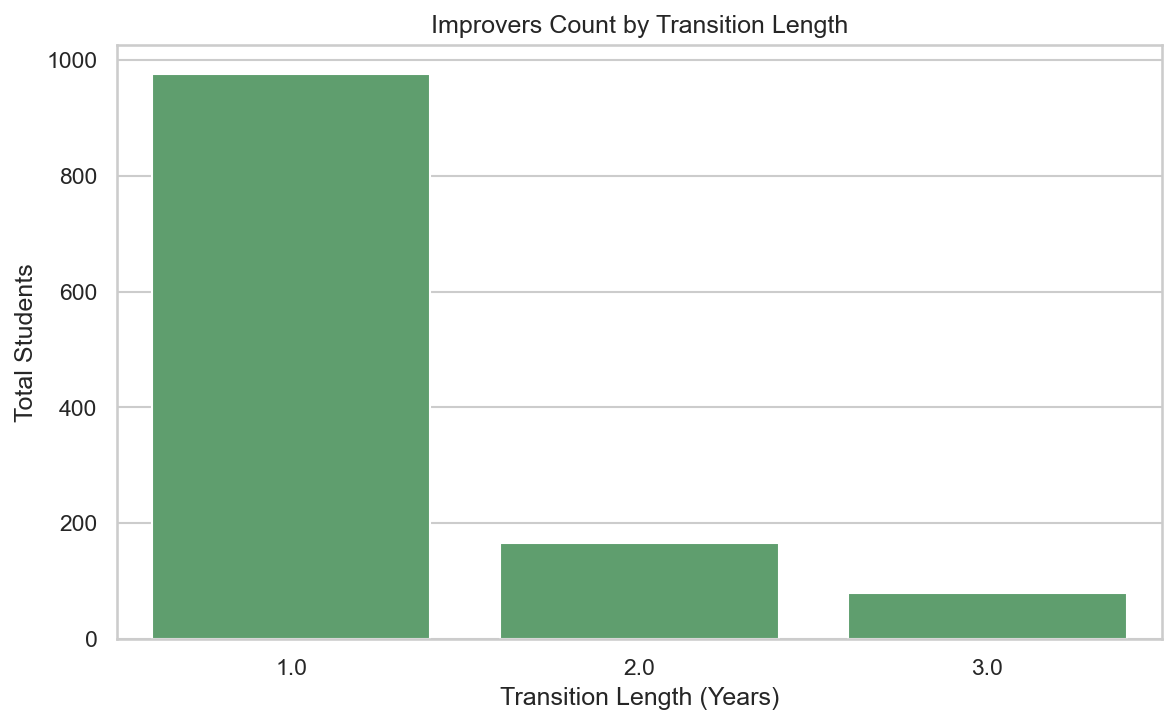
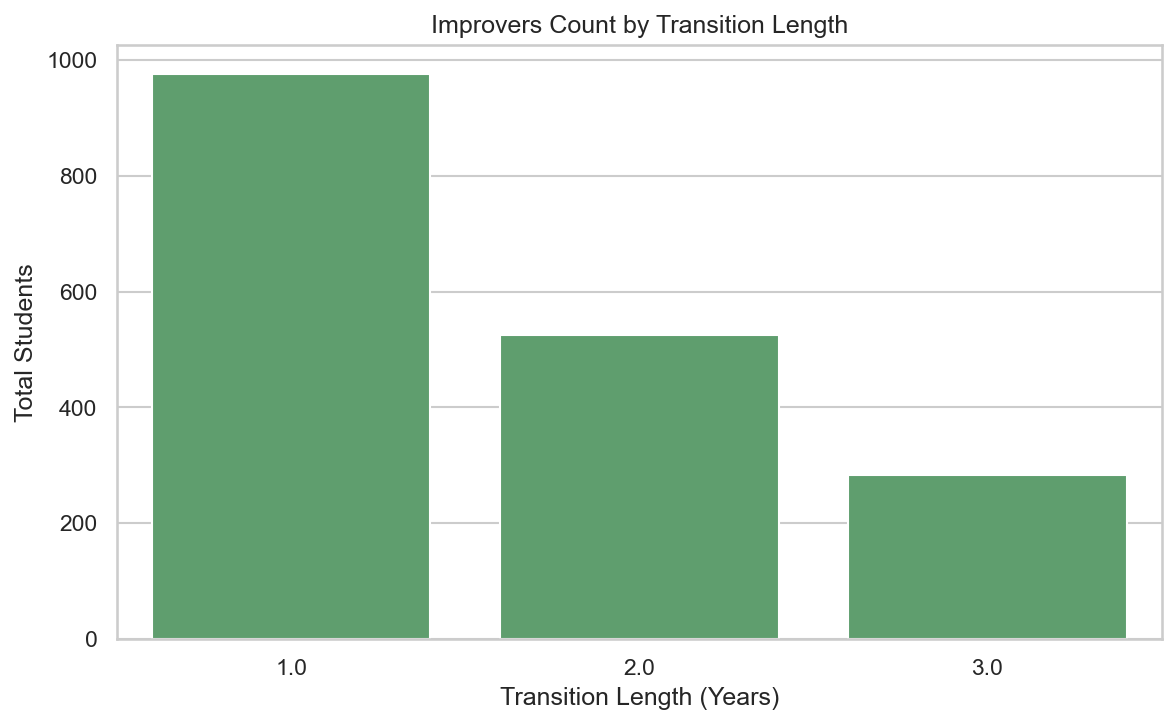
more chart cleanup

Changed region(s): [[0.4286, 0.4552, 0.6735, 0.7586], [0.7041, 0.6372, 0.9796, 0.8193]]

diff --git a/code/08_attendance.py b/code/08_attendance.py
@@ -15,8 +15,8 @@ FIG_DIR   = ROOT / "figures"
 MIN_N              = 30
 MIN_MEMBERSHIP     = 60
 CHRONIC_ABSENT_PCT = 10.0
-# Improver definition (all charts 9–15): must have *observed* anchor year (first_good_year − 1)
-# with attendance strictly below this, and *observed* first good year with attendance ≥ this.
+# Improver definition (all charts 9–15): any student with at least one poor year (< 90%)
+# and a later good year (>= 95%), allowing intermediate years in [90, 95).
 IMPROVER_POOR_MAX_PCT = 90.0
 IMPROVER_GOOD_MIN_PCT = 95.0
 
@@ -117,8 +117,8 @@ _dbase["_disability_group"] = np.where(
     _dbase["scram_membership"].fillna(0) > 0, "Disability", "No Disability"
 )
 
-# Improver charts base (9–15) — 09-style filters, then importers are restricted to students
-# with anchor year < POOR_MAX and first good year ≥ GOOD_MIN (see _improvers below).
+# Improver charts base (9–15) — 09-style filters, then improvers are students with
+# any later good year after at least one poor year (see _improvers below).
 _base_imp = df[
     (df["school_membership"] >= MIN_MEMBERSHIP) &
     df["year"].notna() &
@@ -136,7 +136,7 @@ _base_imp = _base_imp[
 
 _poor_rows = _base_imp[_base_imp["percent_days_attended"] < IMPROVER_POOR_MAX_PCT].copy()
 
-# Candidate: first year ≥ good min after first year < poor max (same structure as 09)
+# Improver candidate: first observed poor year, and first observed good year after that poor year.
 _first_poor_yr = _poor_rows.groupby("student_number")["year"].min().rename("first_poor_year")
 _good_rows = (
     _base_imp[_base_imp["percent_days_attended"] >= IMPROVER_GOOD_MIN_PCT][["student_number", "year"]]
@@ -145,42 +145,7 @@ _good_rows = (
 _good_rows = _good_rows[_good_rows["year"] > _good_rows["first_poor_year"]]
 _first_good_yr = _good_rows.groupby("student_number")["year"].min().rename("first_good_year")
 _cand = pd.concat([_first_poor_yr, _first_good_yr], axis=1).dropna()
-
-# Strict improver: observed (anchor_year, first_good_year) = consecutive years with
-# pct < 90% then ≥ 95% (drops cases where the year before first good was not < 90% or first good < 95%).
-_pct_by_sy = _base_imp[["student_number", "year", "percent_days_attended"]].drop_duplicates(
-    subset=["student_number", "year"], keep="first"
-)
-_iv = _cand.reset_index()
-_iv = _iv.assign(anchor_year=_iv["first_good_year"] - 1)
-_miv = _iv.merge(
-    _pct_by_sy,
-    left_on=["student_number", "anchor_year"],
-    right_on=["student_number", "year"],
-    how="left",
-)
-_miv = _miv.drop(columns=["year"], errors="ignore").rename(
-    columns={"percent_days_attended": "p_anchor"},
-)
-_miv = _miv.merge(
-    _pct_by_sy.rename(
-        columns={"year": "first_good_yr", "percent_days_attended": "p_first_good"}
-    ),
-    left_on=["student_number", "first_good_year"],
-    right_on=["student_number", "first_good_yr"],
-    how="left",
-)
-_miv = _miv.drop(columns=["first_good_yr"], errors="ignore")
-_mask_imp = (
-    _miv["p_anchor"].notna()
-    & _miv["p_first_good"].notna()
-    & (_miv["p_anchor"] < IMPROVER_POOR_MAX_PCT)
-    & (_miv["p_first_good"] >= IMPROVER_GOOD_MIN_PCT)
-)
-_improvers = (
-    _miv.loc[_mask_imp, ["student_number", "first_poor_year", "first_good_year"]]
-    .set_index("student_number")
-)
+_improvers = _cand.copy()
 
 # Anchor at first_good_year - 1 (for denominator: pool of poor student-years in the last school year before good)
 _anchor = _improvers.reset_index()[["student_number", "first_good_year"]].copy()
@@ -217,7 +182,7 @@ _poor_rows_disp["disp_school"] = _poor_rows_disp["fg_school"].fillna(_poor_rows_
 _poor_rows_disp_school = _poor_rows_disp.dropna(subset=["disp_school"])
 
 # Per improver: grade in anchor year (last year before first good) vs grade in first good year.
-# Used for percentage_of_improvers_by_grade: bar G = (G−1 → G) transitions vs all poor at G−1 in anchor.
+# Used for proportion_of_improvers_by_grade: bar G = (G−1 → G) transitions vs all poor at G−1 in anchor.
 _impr_pair = (
     _anchor.merge(
         _sg_lookup,
@@ -378,7 +343,7 @@ for _bar, _row in zip(_bars, _agg3.itertuples()):
         f"n={_row.n:,}", ha="center", fontsize=7, color="#555555"
     )
 ax.set_xlabel("Grade")
-ax.set_ylabel("Share of eligible student-years chronically absent")
+ax.set_ylabel("Percentage of eligible student-years chronically absent")
 ax.set_title(
     "Chronic absenteeism rate by grade\n"
     f"(eligible = school_membership ≥ {MIN_MEMBERSHIP}; chronic = ≥{CHRONIC_ABSENT_PCT:.0f}% days missed)",
@@ -514,7 +479,7 @@ for _bar, _n in zip(_sbars, _sagg["n"]):
         _bar.get_width() + 0.002, _bar.get_y() + _bar.get_height() / 2,
         f"n={_n:,}", va="center", fontsize=7, color="#555555"
     )
-ax.set_xlabel("Share of eligible student-years chronically absent")
+ax.set_xlabel("Percentage of eligible student-years chronically absent")
 ax.set_title(
     "Chronic absenteeism rate by school\n"
     f"(eligible = school_membership ≥ {MIN_MEMBERSHIP}; chronic = ≥{CHRONIC_ABSENT_PCT:.0f}% days missed)",
@@ -598,20 +563,55 @@ print("Wrote Chronic Absenteeism.png")
 
 _m9g = _anc_grade[_anc_grade["current_grade"].between(1, 12)]
 if not _m9g.empty:
-    _counts9 = (
+    _counts9_imp = (
         _m9g.groupby("current_grade", as_index=False)
         .size()
-        .rename(columns={"size": "n"})
+        .rename(columns={"size": "n_improvers"})
         .sort_values("current_grade")
+    )
+    _poor_grade_num = pd.to_numeric(_poor_rows["current_grade"], errors="coerce")
+    _poor_for_chart9 = _poor_rows.loc[_poor_grade_num.notna(), ["student_number"]].copy()
+    _poor_for_chart9["grade"] = _poor_grade_num[_poor_grade_num.notna()].astype(int).values
+    _counts9_poor = (
+        _poor_for_chart9.groupby("grade", as_index=False)["student_number"]
+        .nunique()
+        .rename(columns={"student_number": "n_poor"})
+    )
+    _counts9 = (
+        _counts9_imp.rename(columns={"current_grade": "grade"})
+        .merge(_counts9_poor, on="grade", how="outer")
+        .fillna(0)
+        .sort_values("grade")
+    )
+    _counts9_long = _counts9.melt(
+        id_vars="grade",
+        value_vars=["n_improvers", "n_poor"],
+        var_name="cohort",
+        value_name="n",
+    )
+    _counts9_long["cohort"] = _counts9_long["cohort"].map(
+        {
+            "n_improvers": "Improvers",
+            "n_poor": "Poor Attenders",
+        }
     )
     fig, ax = plt.subplots(figsize=(8, 5))
     sns.set_theme(style="whitegrid")
-    sns.barplot(data=_counts9, x="current_grade", y="n", color="#4c72b0", ax=ax)
+    sns.barplot(
+        data=_counts9_long,
+        x="grade",
+        y="n",
+        hue="cohort",
+        hue_order=["Improvers", "Poor Attenders"],
+        palette=["#4c72b0", "#c44e52"],
+        ax=ax,
+    )
     ax.set_xlabel("Grade")
     ax.set_ylabel("Total Students")
     ax.set_title(
-        "Improvers Count by Grade"
+        "Improvers vs Poor Attenders by Grade"
     )
+    ax.legend(title=None, loc="upper right", fontsize=8)
     fig.tight_layout()
     fig.savefig(FIG_DIR / "improvers_count_by_grade.png", dpi=150, bbox_inches="tight")
     plt.close(fig)
@@ -619,21 +619,18 @@ if not _m9g.empty:
 
 
 # ═══════════════════════════════════════════════════════════════════════════════
-# CHART 10 — Share of prior-year poor who reach first good on the next grade step
-#   Bar at grade G:  (improvers with anchor_grade G−1 and first-good grade G)
-#                    / (all students with poor record in anchor year at grade G−1).
-#   Example G=9: first good in 9th / all poor in 8th in the anchor (pre-good) year.
+# CHART 10 — Proportion of improvers to poor attenders by grade
+#   Bar at grade G:  (improvers with first-good grade G)
+#                    / (all students with poor attendance in grade G).
 # ═══════════════════════════════════════════════════════════════════════════════
 
-_pc = pd.to_numeric(_poor_rows_anchor["current_grade"], errors="coerce")
+_pc = pd.to_numeric(_poor_rows["current_grade"], errors="coerce")
 _rows10: list[dict[str, float | int]] = []
 for _g in range(2, 13):
-    _n_poor_g = _poor_rows_anchor[_pc == _g - 1]["student_number"].nunique()
+    _n_poor_g = _poor_rows[_pc == _g]["student_number"].nunique()
     if _n_poor_g <= 0:
         continue
-    _n_tr = _impr_pair[
-        (_impr_pair["anchor_grade"] == _g - 1) & (_impr_pair["fg_grade"] == _g)
-    ]["student_number"].nunique()
+    _n_tr = _impr_pair[_impr_pair["fg_grade"] == _g]["student_number"].nunique()
     _rows10.append(
         {"grade": _g, "n": _n_tr / _n_poor_g, "n_trans": _n_tr, "n_poor": _n_poor_g}
     )
@@ -644,12 +641,12 @@ if not _grade_counts.empty:
     sns.set_theme(style="whitegrid")
     sns.barplot(data=_grade_counts, x="grade", y="n", color="#8172b3", ax=ax)
     ax.set_xlabel("Grade")
-    ax.set_ylabel("Improvers / All Poor Attenders")
-    ax.set_title("Percentage of Improvers by Grade")
+    ax.set_ylabel("Improvers / Poor Attenders")
+    ax.set_title("Proportion of Improvers to Poor Attenders by Grade")
     fig.tight_layout()
-    fig.savefig(FIG_DIR / "percentage_of_improvers_by_grade.png", dpi=150, bbox_inches="tight")
+    fig.savefig(FIG_DIR / "proportion_of_improvers_to_poor_attenders_by_grade.png", dpi=150, bbox_inches="tight")
     plt.close(fig)
-    print("Wrote percentage_of_improvers_by_grade.png")
+    print("Wrote proportion_of_improvers_to_poor_attenders_by_grade.png")
 
 
 # ═══════════════════════════════════════════════════════════════════════════════
@@ -666,7 +663,7 @@ if not _improver_school_counts.empty:
     sns.set_theme(style="whitegrid")
     sns.barplot(data=_improver_school_counts, x="current_school", y="n", color="#4c72b0", ax=ax)
     ax.set_xlabel("School")
-    ax.set_ylabel("Total Students")
+    ax.set_ylabel("Total Improvers")
     ax.set_title(
         "Improvers by School"
     )
@@ -678,7 +675,7 @@ if not _improver_school_counts.empty:
 
 
 # ═══════════════════════════════════════════════════════════════════════════════
-# CHART 12 — Percentage of improvers by school (first good-attendance year)
+# CHART 12 — Proportion of improvers by school (first good-attendance year)
 # ═══════════════════════════════════════════════════════════════════════════════
 
 _t12 = _anc_school.groupby("current_school", as_index=False)["student_number"].nunique().rename(
@@ -700,16 +697,16 @@ if not _school_counts.empty:
     sns.barplot(data=_school_counts, x="current_school", y="n", color="#4c72b0", ax=ax)
     ax.set_xlabel("School")
     ax.set_ylabel("Improvers / All Poor Attenders")
-    ax.set_title("Percentage of Improvers by School")
+    ax.set_title("Proportion of Improvers by School")
     plt.setp(ax.get_xticklabels(), rotation=45, ha="right")
     fig.tight_layout()
-    fig.savefig(FIG_DIR / "percentage_of_improvers_by_school.png", dpi=150, bbox_inches="tight")
+    fig.savefig(FIG_DIR / "proportion_of_improvers_by_school.png", dpi=150, bbox_inches="tight")
     plt.close(fig)
-    print("Wrote percentage_of_improvers_by_school.png")
+    print("Wrote proportion_of_improvers_by_school.png")
 
 
 # ═══════════════════════════════════════════════════════════════════════════════
-# CHART 13 — Percentage of improvers by school group (first good-attendance year)
+# CHART 13 — Proportion of improvers by school group (first good-attendance year)
 # ═══════════════════════════════════════════════════════════════════════════════
 
 _hs_names = {str(i).strip() for i in pd.read_csv(_hs_path, index_col=0).index} if _hs_path.is_file() else set()
@@ -754,16 +751,16 @@ if not _group_counts.empty:
     ax.set_xlabel("School Group")
     ax.set_ylabel("Improvers / All Poor Attenders")
     ax.set_title(
-        "Percentage of Improvers by School Group"
+        "Proportion of Improvers by School Group"
     )
     fig.tight_layout()
-    fig.savefig(FIG_DIR / "percentage_of_improvers_by_school_group.png", dpi=150, bbox_inches="tight")
+    fig.savefig(FIG_DIR / "proportion_of_improvers_by_school_group.png", dpi=150, bbox_inches="tight")
     plt.close(fig)
-    print("Wrote percentage_of_improvers_by_school_group.png")
+    print("Wrote proportion_of_improvers_by_school_group.png")
 
 
 # ═══════════════════════════════════════════════════════════════════════════════
-# CHART 14 — Top 10 teachers by improver share, split by school level (ES / MS / HS)
+# CHART 14 — Top 10 teachers by improver percentage, split by school level (ES / MS / HS)
 #   All poor→good improvers (any years-to-good), teacher links in *anchor* year
 #   (first_good_year − 1). Poor pool: same anchor years, poor (<90) student-years
 #   with a link. Supplement: mean % attendance for improvers in the *first good* year vs
@@ -817,8 +814,8 @@ if _tg_path.is_file() and not _anchor.empty:
         _merged_enrolled14 = _tgrid[["student_number", "year"] + _tcols].merge(_enrolled_sy14, on=["student_number", "year"], how="inner")
         _n_enrolled14 = (_merged_enrolled14[_tcols] > 0).sum(axis=0).astype(int)
 
-        # Mean attendance: all student-years on teacher roster vs improvers in *first good* year
-        # (teacher link is still at anchor; attendance for improvers = year of first good ≥ 95%)
+        # Mean attendance: good-attendance student-years on teacher roster (>=95%) vs improvers
+        # in *first good* year (teacher link is still at anchor; improver attendance uses first good year)
         _tgrid_att = _tgrid.merge(
             _base_imp[["student_number", "year", "percent_days_attended"]].drop_duplicates(
                 subset=["student_number", "year"]
@@ -837,8 +834,9 @@ if _tg_path.is_file() and not _anchor.empty:
         )
         _exp_att = _exp_att.drop(columns=["year"], errors="ignore")
 
-        def _class_mean_att(_col: str) -> float:
+        def _class_good_mean_att(_col: str) -> float:
             _d = _tgrid_att[pd.to_numeric(_tgrid_att[_col], errors="coerce") >= 1.0]
+            _d = _d[_d["percent_days_attended"] >= IMPROVER_GOOD_MIN_PCT]
             if _d.empty or _d["percent_days_attended"].isna().all():
                 return float("nan")
             return float(_d["percent_days_attended"].mean())
@@ -900,7 +898,7 @@ if _tg_path.is_file() and not _anchor.empty:
                 ax.set_xlabel("Improvers / All Poor Attenders")
                 ax.set_ylabel("Teacher")
                 ax.set_title(
-                    f"Top {_TEACHER_TOP_N} Teachers by Share of Improvers — {_tier}"
+                    f"Top {_TEACHER_TOP_N} Teachers by Percentage of Improvers — {_tier}"
                 )
                 _max_x = float(_plot_t["ratio_plot"].max()) if not _plot_t.empty else 0.0
                 _x_pad = max(0.02, 0.04 * _max_x) if _max_x > 0 else 0.05
@@ -927,11 +925,17 @@ if _tg_path.is_file() and not _anchor.empty:
                     if _tcol not in _tcols:
                         continue
                     _mi = _improver_mean_att(_tcol)
-                    _mc = _class_mean_att(_tcol)
+                    _mc = _class_good_mean_att(_tcol)
                     if pd.isna(_mi) and pd.isna(_mc):
                         continue
                     _supp_rows.append({"teacher": _tcol, "cohort": "Improvers", "mean_att": _mi})
-                    _supp_rows.append({"teacher": _tcol, "cohort": "All Students with Teacher", "mean_att": _mc})
+                    _supp_rows.append(
+                        {
+                            "teacher": _tcol,
+                            "cohort": f"Good-Attendance Students with Teacher (>= {IMPROVER_GOOD_MIN_PCT:.0f}%)",
+                            "mean_att": _mc,
+                        }
+                    )
                 if _supp_rows:
                     _sdf = pd.DataFrame(_supp_rows)
                     _sdf = _sdf[_sdf["mean_att"].notna()].copy()
@@ -954,7 +958,7 @@ if _tg_path.is_file() and not _anchor.empty:
                         _ax2.set_xlabel("Mean Percent Days Attended")
                         _ax2.set_ylabel("Teacher")
                         _ax2.set_title(
-                            f"Mean Attendance: Improvers vs All Students with Teacher — {_tier}"
+                            f"Mean Attendance: Improvers vs Good-Attendance Students with Teacher — {_tier}"
                         )
                         _ax2.set_xlim(0, 105)
                         _ax2.legend(title=None, loc="lower right", fontsize=8)
